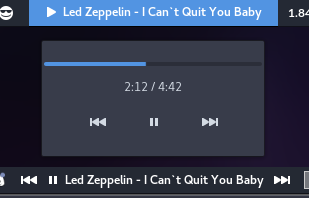
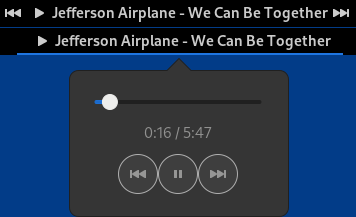
Fix styling

diff --git a/cmus-status@yagreg7.gmail.com/extension.js b/cmus-status@yagreg7.gmail.com/extension.js
@@ -224,9 +224,9 @@ const trayItem = new Lang.Class({
 						y_fill: false,
 						track_hover: true });
 
-		let box = new St.BoxLayout();
+		let box = new St.BoxLayout({ y_align: Clutter.ActorAlign.CENTER });
 
-		this.status_label = new St.Label({ style_class: "tray-label", text: this.caption });
+		this.status_label = new St.Label({ text: this.caption, y_align: Clutter.ActorAlign.CENTER });
 		this.status_icon = new St.Icon({ icon_name: "media-playback-pause-symbolic",
 						style_class: "system-status-icon" });
 
@@ -310,9 +310,9 @@ const trayItem = new Lang.Class({
 						y_fill: false,
 						track_hover: true });
 
-		let box = new St.BoxLayout();
+		let box = new St.BoxLayout({ y_align: Clutter.ActorAlign.CENTER });
 
-		this.status_label = new St.Label({ style_class: "tray-label", text: this.caption });
+		this.status_label = new St.Label({ text: this.caption, y_align: Clutter.ActorAlign.CENTER });
 		this.status_icon = new St.Icon({ icon_name: "media-playback-pause-symbolic",
 						style_class: "system-status-icon" });
 

diff --git a/cmus-status@yagreg7.gmail.com/stylesheet.css b/cmus-status@yagreg7.gmail.com/stylesheet.css
@@ -8,12 +8,6 @@
 	padding: .5em;
 }
 
-.tray-label
-{
-	padding-right: .5em;
-	text-align: center;
-}
-
 .popup-menu
 {
 }
@@ -39,20 +33,20 @@
  * Copypasted shamelessly from Canta-blue-dark-compact
  * because there's no such style in Adwaita and
  * it looks cool
+ * Also modified a liiiitle
  */
 .system-menu-action {
-  color: rgba(255, 255, 255, 0.7);
+  background-color: rgba(150, 150, 150, 0.1);
   border-radius: 100px;
   /* wish we could do 50% */
   padding: 11px;
-  border: none;
+  border: 1px;
+  border-color: rgba(175, 175, 175, 1.0);
   -st-icon-style: symbolic;
 }
 
 .system-menu-action:hover, .system-menu-action:focus {
-  background-color: rgba(255, 255, 255, 0.12);
-  color: #FFFFFF;
-  border: none;
+  background-color: rgba(150, 150, 150, 0.2);
   padding: 11px;
 }
 
@@ -64,4 +58,3 @@
 .system-menu-action > StIcon {
   icon-size: 16px;
 }
-

diff --git a/README.md b/README.md
@@ -1,5 +1,6 @@
 # gnome-cmus-status
 A little GNOME shell extension for displaying and controlling cmus status.
+![Screenshot](screenshot1.png)
 
 ## Feature roadmap:
 - [x] Launch cmus in a new terminal window
